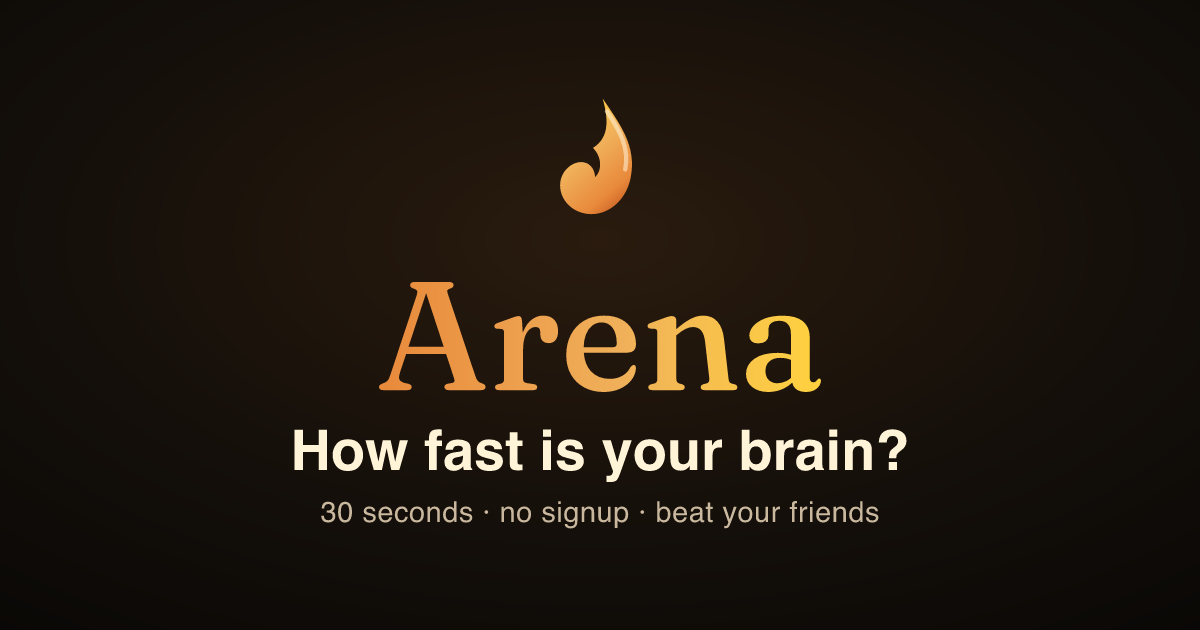
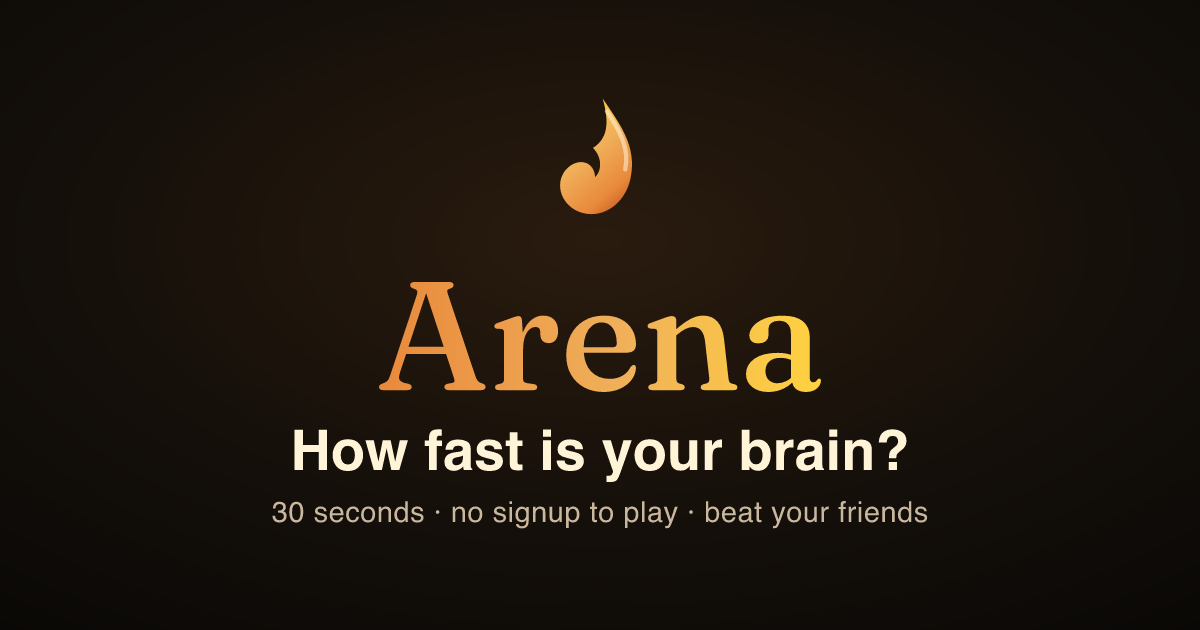
fix: honest 'no signup to play' — there is an (optional) signup to save
The hook is no-signup to PLAY (test + result + challenge-a-friend all work logged-out), but there IS an optional 'Save your rank' signup at the end — so a flat 'no signup' overclaimed. Corrected to 'no signup to play' in the OG image (regenerated), the og/twitter unfurl description, and the in-app hook footnote. Holds the no-deception line.

Changed region(s): [[0.2158, 0.7841, 0.7708, 0.8444]]

diff --git a/index.html b/index.html
@@ -14,13 +14,13 @@
          inside the preview) would need a serverless function — later. -->
     <meta property="og:type" content="website" />
     <meta property="og:title" content="How fast is your brain? — Arena" />
-    <meta property="og:description" content="10 quick problems against the clock. No signup. Take the test, then dare a friend to beat your score." />
+    <meta property="og:description" content="10 quick problems against the clock. No signup to play. Take the test, then dare a friend to beat your score." />
     <meta property="og:image" content="/og-challenge.png" />
     <meta property="og:image:width" content="1200" />
     <meta property="og:image:height" content="630" />
     <meta name="twitter:card" content="summary_large_image" />
     <meta name="twitter:title" content="How fast is your brain? — Arena" />
-    <meta name="twitter:description" content="10 quick problems against the clock. No signup. Take the test, then dare a friend to beat your score." />
+    <meta name="twitter:description" content="10 quick problems against the clock. No signup to play. Take the test, then dare a friend to beat your score." />
     <meta name="twitter:image" content="/og-challenge.png" />
     <link rel="preconnect" href="https://fonts.googleapis.com" />
     <link rel="preconnect" href="https://fonts.gstatic.com" crossorigin />

diff --git a/src/lib/hook-copy.ts b/src/lib/hook-copy.ts
@@ -23,7 +23,7 @@ export const HOOK_COPY = {
       `${name} scored ${score.toLocaleString()}. Beat it — same 10 questions.`,
     startFresh: 'Take the test',
     startIncoming: 'Beat their score',
-    footnote: 'No signup. Plays instantly.',
+    footnote: 'No signup to play. Plays instantly.',
     someone: 'Someone', // fallback when the challenger has no name
   },
   result: {
